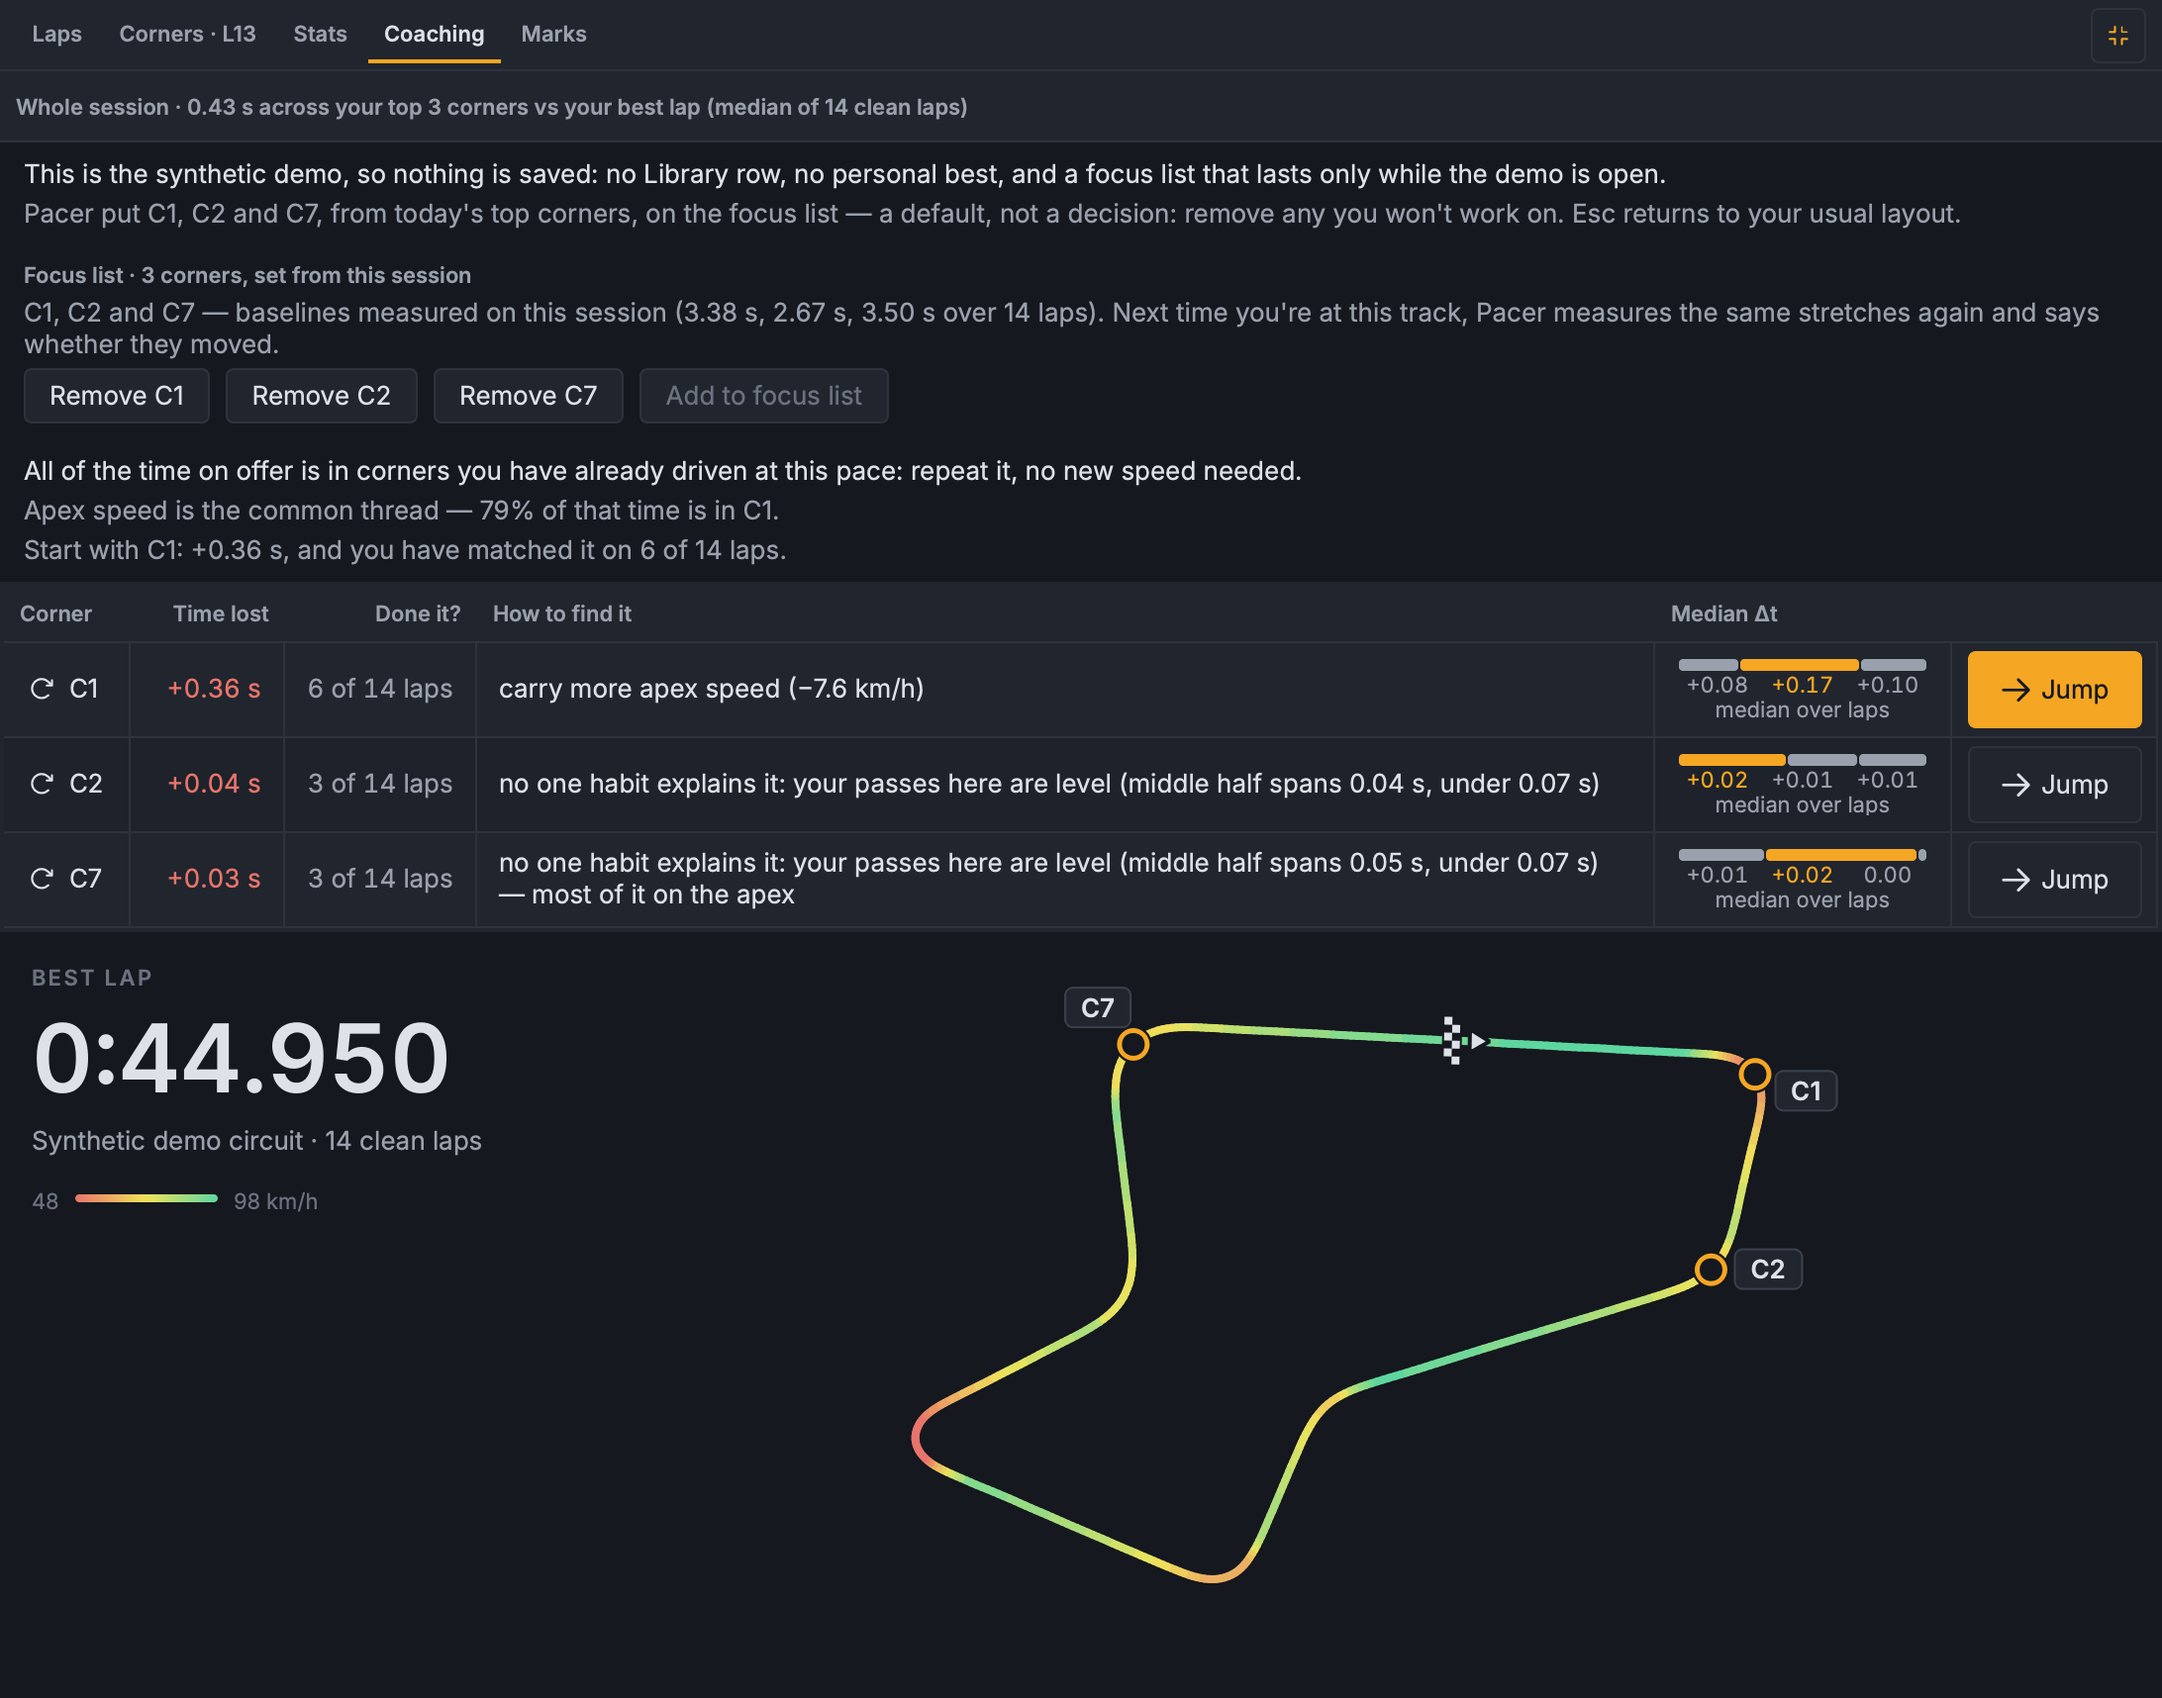
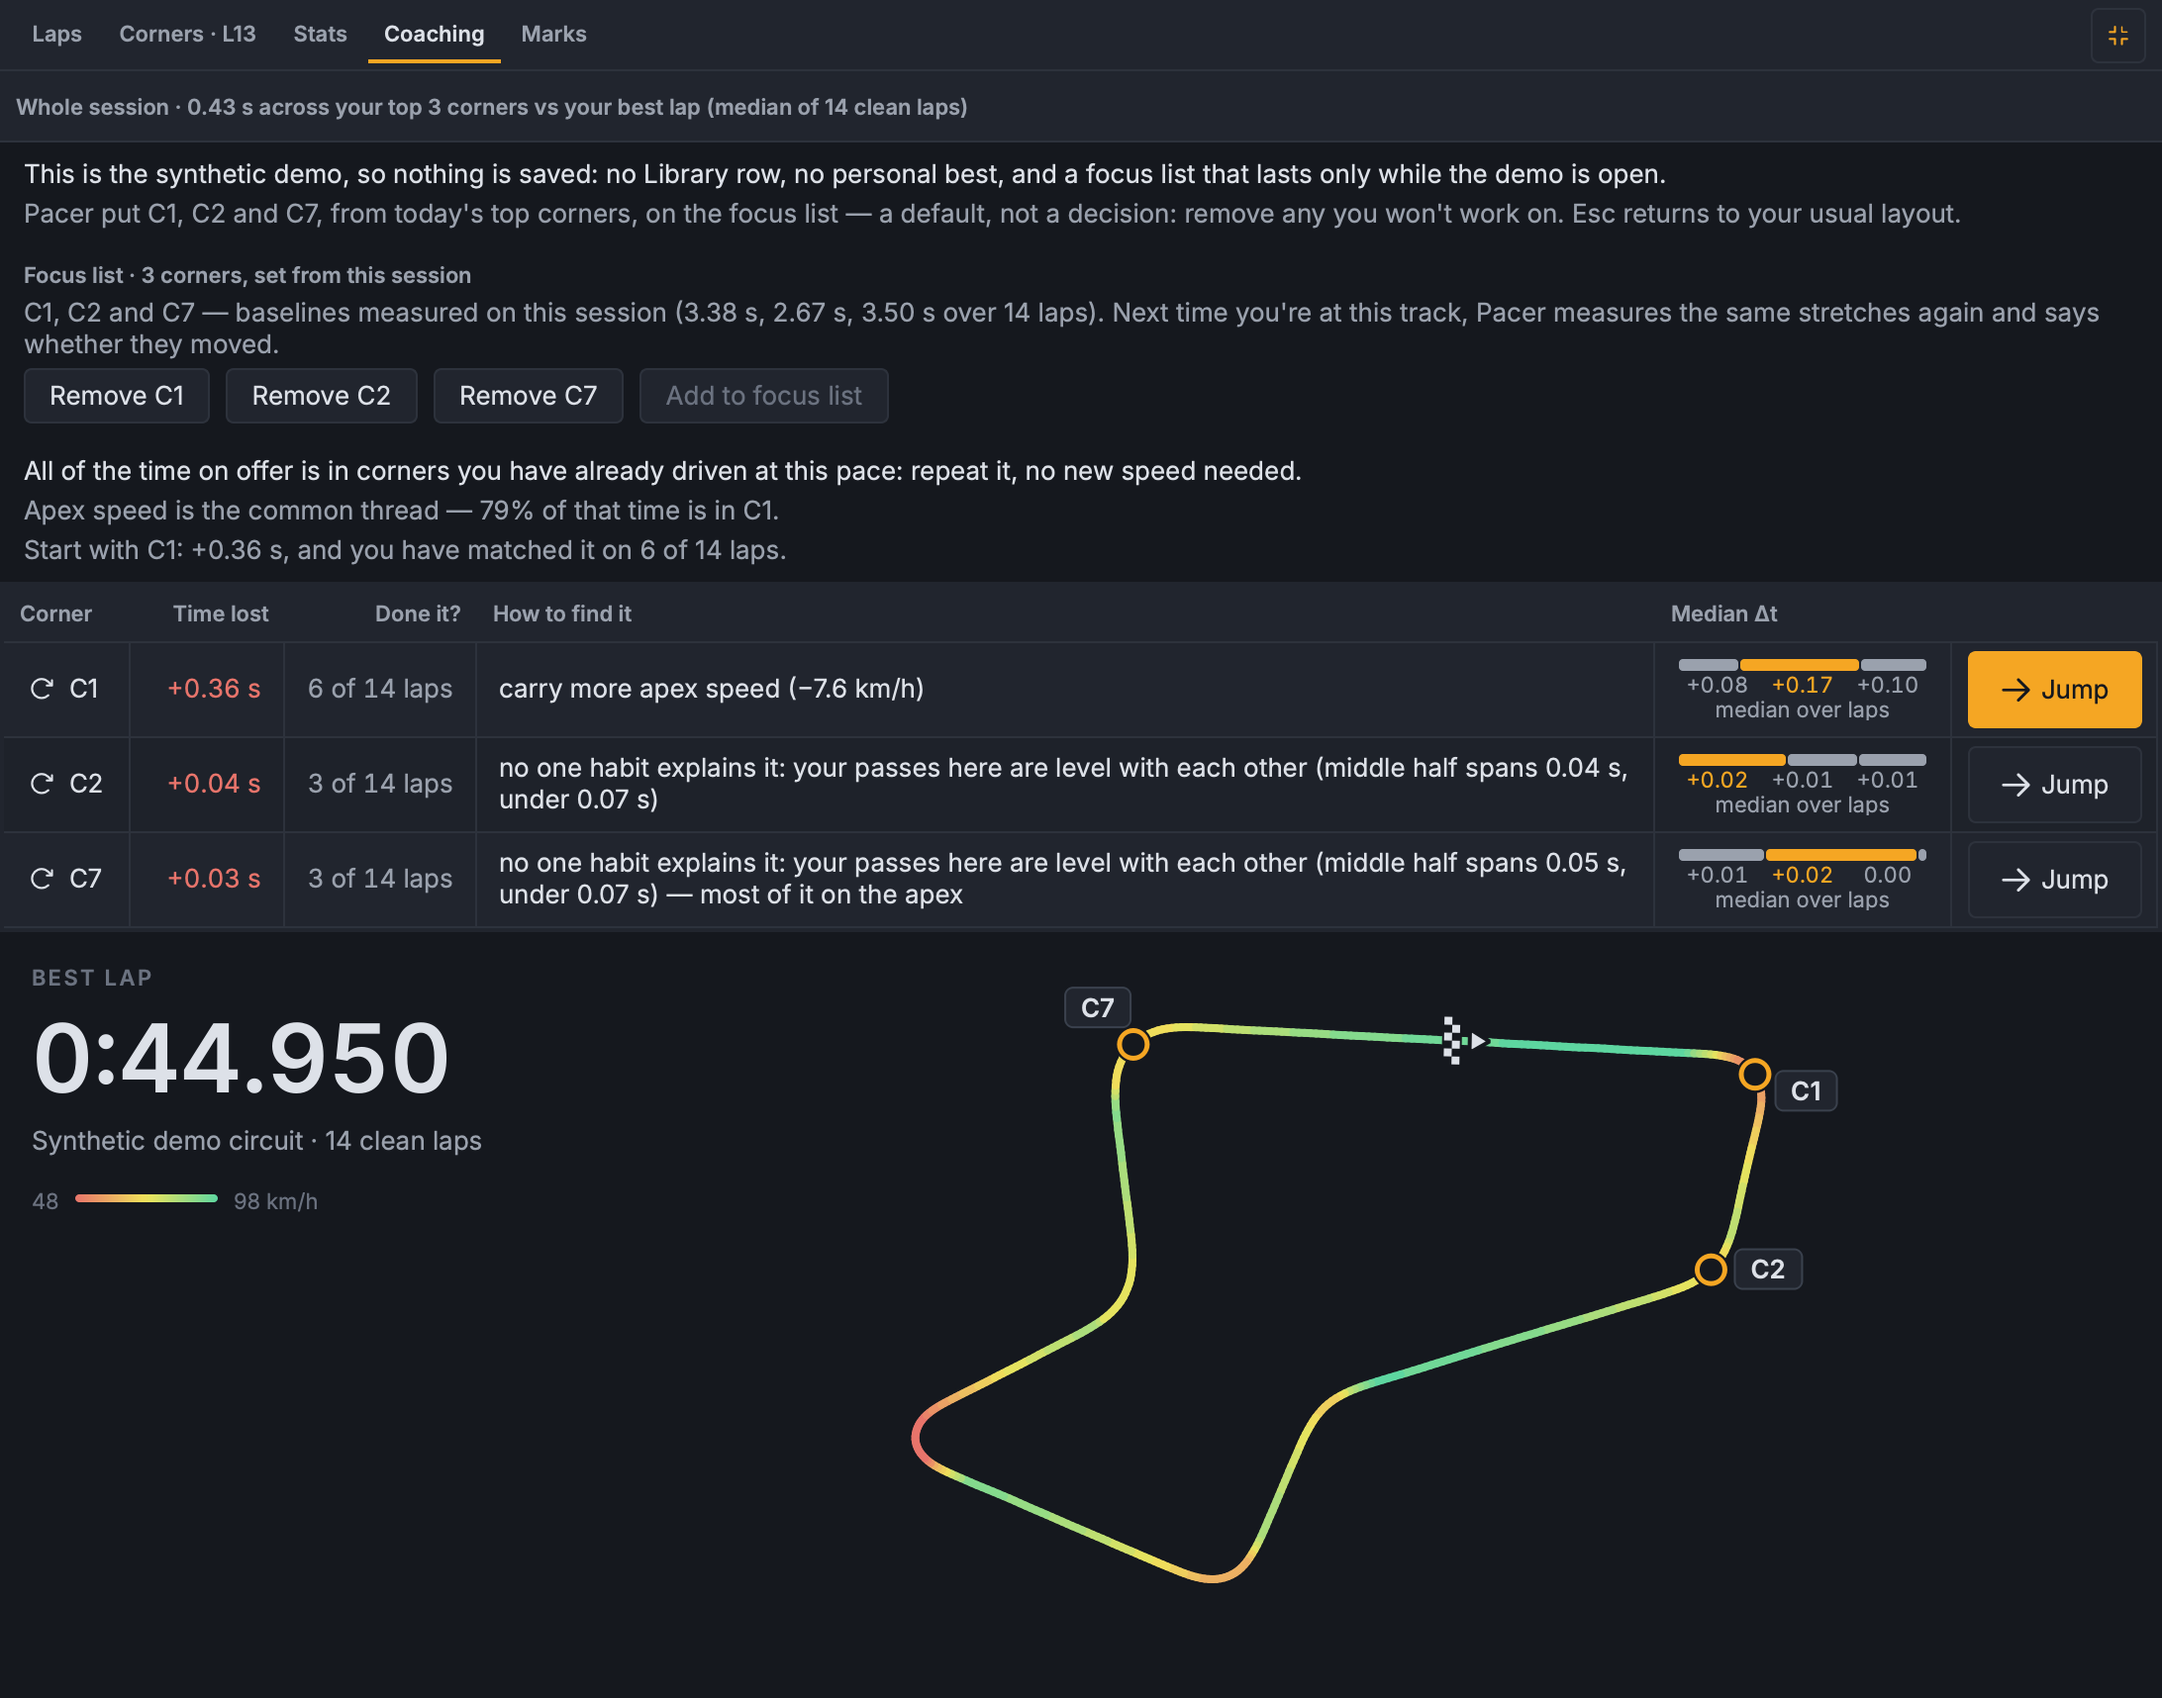
Level sentence: passes level with each other; a width just under 0.07 s prints 0.066 s
Re-review of #587: stats.fmt_middle_half printed 0.066 s as "0.07 s", so the row read
"middle half spans 0.07 s, under 0.07 s"; in [0.065, 0.07) the one formatter CORNERS shares
now prints a third decimal. The level sentence says the passes are level with each other, so
it cannot read as nothing to gain. THEME note: no detail beyond the table's cells. Debrief
re-captured (reason text only).

diff --git a/tests/test_coaching.py b/tests/test_coaching.py
@@ -3102,7 +3102,7 @@ def test_coaching_never_prints_consistency_where_corners_calls_the_spread_level(
                 assert row.reason.contribution == 0.0, row.reason
                 if row.evidence.ranked:
                     assert sent.startswith("no one habit explains it: your passes here are level "
-                                           "(middle half spans 0."), sent
+                                           "with each other (middle half spans 0."), sent
                     assert ", under 0.07 s)" in sent, sent
     assert seen_level >= 3, seen_level
     print(f"ok level step: no consistency reason where CORNERS calls it level ({seen_level} level rows)")
@@ -3156,6 +3156,28 @@ def test_a_steadily_slow_corner_stays_ranked_and_names_no_spread():
         sigmas_by_cid={1: 0.60, 2: 0.60, 3: 0.03}, **lev).rows]
     assert kinds == [K.REASON_APEX, K.REASON_LEVEL, K.REASON_LEVEL], kinds
     print("ok steady loss: +0.30 s on every lap stays ranked #1, reason level, not consistency")
+
+
+def test_a_level_width_just_under_the_step_never_prints_as_the_step():
+    """Re-review of #587 (P3): a middle half of 0.066 s rounds to "0.07 s" at two decimals, and the
+    sentence read "middle half spans 0.07 s, under 0.07 s". The one formatter CORNERS shares prints a
+    third decimal in that band, on both tabs; outside it nothing changes."""
+    from studio import stats as stats_service
+    floor = stats_service.CORNER_MIDDLE_HALF_FLOOR_S
+    assert stats_service.fmt_middle_half(0.066, floor) == "0.066 s"
+    assert stats_service.fmt_middle_half(0.064, floor) == "0.06 s"
+    assert stats_service.fmt_middle_half(0.07, floor) == "0.07 s"
+    assert stats_service.fmt_middle_half(0.0749, floor) == "0.07 s"
+    # Laps keep their floor form below the step ("< 0.07 s"), so never reach the band.
+    assert stats_service.fmt_middle_half(0.066) == "< 0.07 s"
+    # Through the Coaching row: plan a 0.066 s middle half at C1 and read the sentence.
+    corners, best, times, lap_times = _level_fixture([0.30] * 3, [0.066, 0.02, 0.02])
+    opp = K.summarize(corners, list(range(len(lap_times))), lap_times, times, best,
+                      sigmas_by_cid={c.cid: 0.03 for c in corners})
+    sent = K.reason_sentence(opp.rows[0], reach=False)
+    assert sent == ("no one habit explains it: your passes here are level with each other "
+                    "(middle half spans 0.066 s, under 0.07 s)"), sent
+    print(f"ok P3: {sent!r}")
 
 
 def test_level_rows_count_towards_no_cause_in_the_theme():

diff --git a/studio/coaching.py b/studio/coaching.py
@@ -591,7 +591,7 @@ class Opportunity:
 # cool/coaching-level-step (2026-11-16) re-measured the three 0068 rows, the one recording on the
 # machine, when a row whose spread is level stopped naming consistency ("the level step" below,
 # REASON_LEVEL, which names no cause and counts towards none): 0068 chapter 2 moved from consistency
-# 74 % to coasting 26 % (two of its three ranked corners read level), and no other 0068 cell moved.
+# 74 % to coasting 26 %, and no other 0068 cell moved.
 # The four 0064 rows were not re-measured, the recording not being on that machine. The full
 # recording's should not move: its ranked rows' middle halves, in the evidence table above, are
 # 0.187-0.309 s, far over the 0.07 s step. Its chapters' rows are not re-verified, nor is the
@@ -605,8 +605,8 @@ class Opportunity:
 # ranked rows of the four working-set recordings, none of them carries a measured line difference,
 # and the row says so with the spread it reads. The axis
 # still does not survive every smaller lap set: of the five single chapters, two name no single
-# cause (0064's chapter 1, which ranks nothing, and 0068's chapter 2, two of whose three ranked
-# corners are level), so the cause line is conditional and can read
+# cause (0064's chapter 1, which ranks nothing, and 0068's chapter 2), so the cause line is
+# conditional and can read
 # "no single cause dominates".
 #
 # AND THE HONEST CAVEAT, also measured: the theme is a property of the LAP SET, and it moves with
@@ -1544,8 +1544,8 @@ def reason_sentence(opp: Opportunity, unit: str | None = None, reach: bool = Tru
         # above `_pick_reason`). The width is the CORNERS table's print of the same cells.
         width = stats_service.fmt_middle_half(opp.evidence.iqr,
                                               stats_service.CORNER_MIDDLE_HALF_FLOOR_S)
-        base = (f"no one habit explains it: your passes here are level (middle half spans "
-                f"{width}, under {LEVEL_STEP_S:.2f} s)")
+        base = ("no one habit explains it: your passes here are level with each other "
+                f"(middle half spans {width}, under {LEVEL_STEP_S:.2f} s)")
     else:
         base = "find time here"
     lever = base + dominant_phase_clause(opp)

diff --git a/studio/stats.py b/studio/stats.py
@@ -1196,11 +1196,14 @@ def middle_half(values) -> float | None:
 def fmt_middle_half(width: float | None, floor: float = MIDDLE_HALF_FLOOR_S) -> str | None:
     """The middle half's width as printed: `0.59 s`, or `< 0.07 s` below `floor` (the floor, not
     the value). Laps take MIDDLE_HALF_FLOOR_S, corners CORNER_MIDDLE_HALF_FLOOR_S. None passes
-    through."""
+    through. A width under the level step (MARK_MIN_MIDDLE_HALF_S) that two decimals would round up
+    TO it prints a third decimal, `0.066 s`, so no surface says "0.07 s, under 0.07 s"."""
     if width is None:
         return None
     if width < floor:
         return f"< {floor:.2f} s"
+    if width < MARK_MIN_MIDDLE_HALF_S <= round(width, 2):
+        return f"{width:.3f} s"
     return f"{width:.2f} s"
 
 
